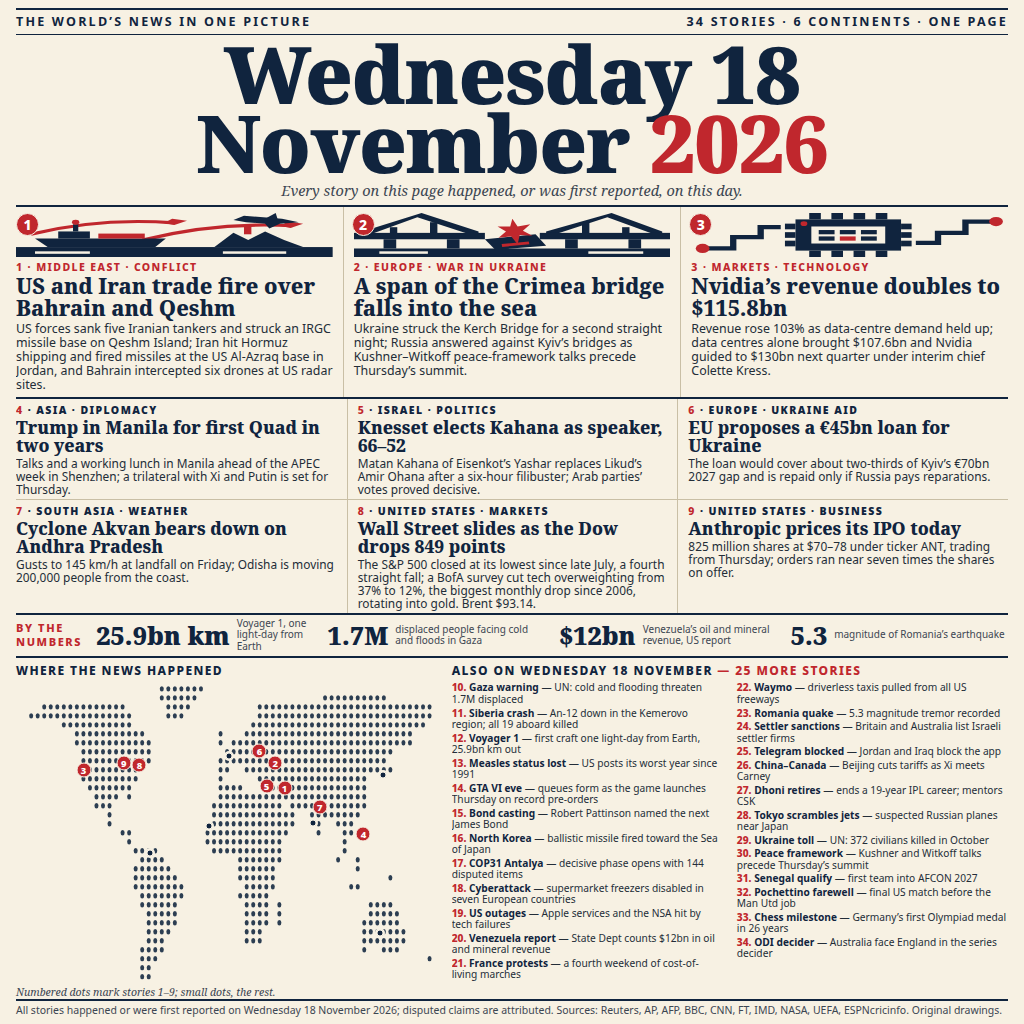
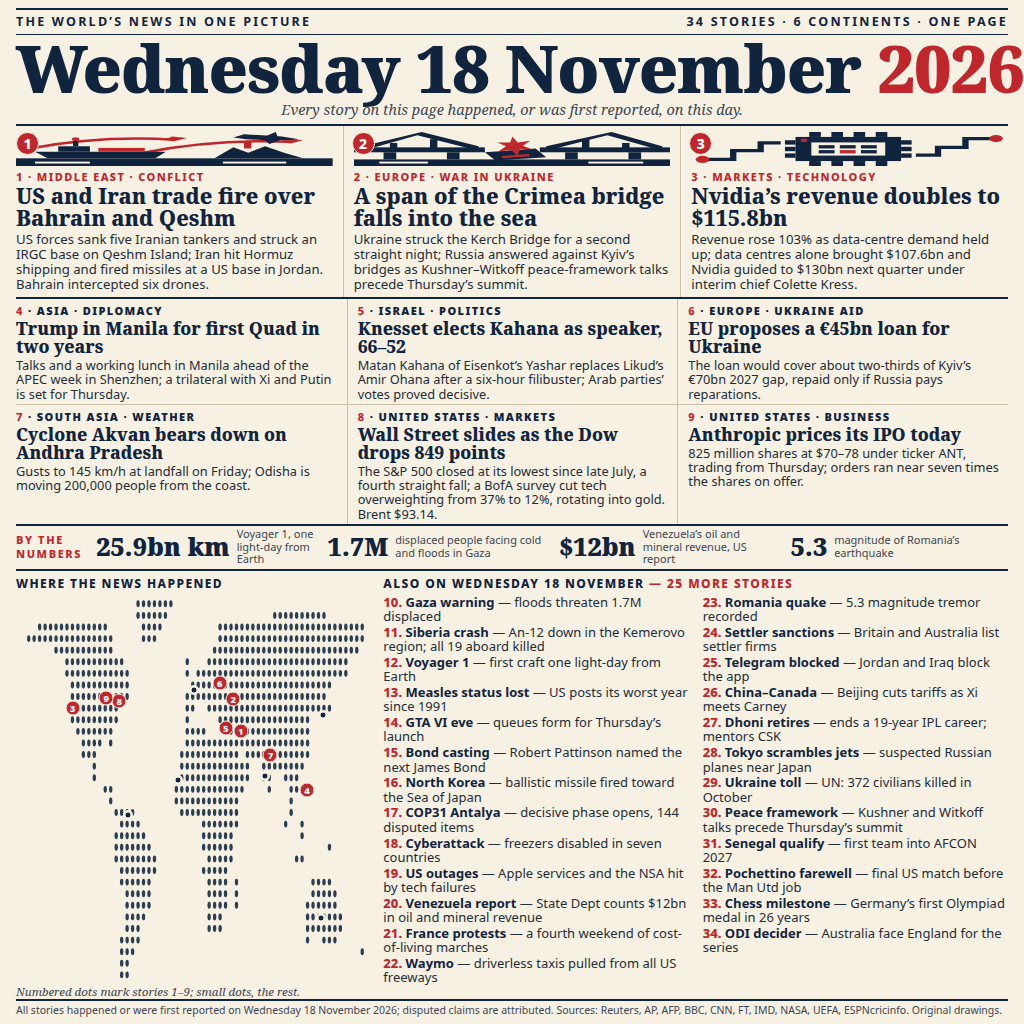
Round 3: legibility revision - larger body type, shortened texts, full 34 stories visible

diff --git a/page.html b/page.html
@@ -28,7 +28,8 @@
   .hero { text-align:center; padding:4px 0 5px 0; border-bottom:2.5px solid #10243E; }
   .hero h1 {
     font-family:"Noto Serif", serif; font-weight:900; color:#10243E;
-    font-size:80px; line-height:0.86; letter-spacing:-1px; margin:0;
+    font-size:66px; line-height:0.86; letter-spacing:-1px; margin:0;
+    white-space:nowrap;
   }
   .hero h1 .yr { color:#c0272d; }
   .strapline {
@@ -42,7 +43,7 @@
   .panel + .panel { border-left:1px solid #c9bfa5; }
   .panel:first-child { padding-left:0; }
   .panel:last-child { padding-right:0; }
-  .panel svg.art { display:block; width:100%; height:44px; }
+  .panel svg.art { display:block; width:100%; height:34px; }
   .numcirc {
     position:absolute; top:6px; left:8px; width:23px; height:23px; border-radius:50%;
     background:#c0272d; color:#fff; font-weight:800; font-size:14px;
@@ -50,9 +51,9 @@
     border:1.5px solid #f7f1e3;
   }
   .panel:first-child .numcirc { left:0; }
-  .kicker { font-size:10.5px; font-weight:800; letter-spacing:1.4px; color:#c0272d; margin:3px 0 1px 0; white-space:nowrap; }
+  .kicker { font-size:11px; font-weight:800; letter-spacing:1.4px; color:#c0272d; margin:3px 0 1px 0; white-space:nowrap; }
   .panel h2 { font-family:"Noto Serif", serif; font-weight:800; font-size:21.5px; line-height:1.03; color:#10243E; margin:0 0 3px 0; }
-  .panel p { font-size:12.4px; line-height:1.13; margin:0; color:#232d38; }
+  .panel p { font-size:13.2px; line-height:1.14; margin:0; color:#232d38; }
 
   /* ---------- Modules ---------- */
   .modules { display:grid; grid-template-columns:1fr 1fr 1fr; border-bottom:2px solid #10243E; }
@@ -65,23 +66,23 @@
   .mod .kicker { margin:0 0 2px 0; }
   .mod .kicker b { color:#10243E; }
   .mod h3 { font-family:"Noto Serif", serif; font-weight:800; font-size:17.5px; line-height:1.02; color:#10243E; margin:0 0 2px 0; }
-  .mod p { font-size:11.9px; line-height:1.10; margin:0; color:#232d38; }
+  .mod p { font-size:12.8px; line-height:1.12; margin:0; color:#232d38; }
   .mnum { color:#c0272d; }
 
   /* ---------- By the numbers ---------- */
   .numbers {
     display:flex; align-items:center; gap:14px;
-    border-bottom:2px solid #10243E; padding:3px 0 4px 0;
+    border-bottom:2px solid #10243E; padding:2px 0 3px 0;
   }
   .numbers .lbl { font-size:11px; font-weight:800; letter-spacing:1.6px; color:#c0272d; white-space:nowrap; line-height:1.25; }
   .numitem { display:flex; align-items:center; gap:7px; flex:1; }
   .numitem .big { font-family:"Noto Serif", serif; font-weight:900; font-size:25px; color:#10243E; white-space:nowrap; line-height:1; }
-  .numitem .cap { font-size:10px; line-height:1.15; color:#3c4652; }
+  .numitem .cap { font-size:11px; line-height:1.15; color:#3c4652; }
 
   /* ---------- Bottom split ---------- */
   .bottom { display:flex; gap:16px; flex:1; min-height:0; padding-top:4px; }
-  .leftcol { width:43%; display:flex; flex-direction:column; }
-  .rightcol { width:57%; display:flex; flex-direction:column; }
+  .leftcol { width:36%; display:flex; flex-direction:column; }
+  .rightcol { width:64%; display:flex; flex-direction:column; }
   .colhead { font-size:12px; font-weight:800; letter-spacing:1.4px; color:#10243E; margin:0 0 3px 0; white-space:nowrap; }
   .colhead .red { color:#c0272d; }
   .mapwrap { position:relative; width:100%; flex:1; min-height:0; }
@@ -97,9 +98,9 @@
     background:#10243E; transform:translate(-50%,-50%);
     border:1px solid #f7f1e3; box-shadow:0 0 0 1.5px #f7f1e3; z-index:2;
   }
-  .mapcap { font-size:10.5px; font-style:italic; font-family:"Noto Serif", serif; color:#3c4652; margin-top:3px; }
+  .mapcap { font-size:11.5px; font-style:italic; font-family:"Noto Serif", serif; color:#3c4652; margin-top:3px; }
   .microlist { columns:2; column-gap:14px; flex:1; min-height:0; overflow:hidden; }
-  .microlist div { font-size:10.2px; line-height:1.13; color:#232d38; margin:0 0 2px 0; break-inside:avoid; }
+  .microlist div { font-size:13px; line-height:1.10; color:#232d38; margin:0 0 1.5px 0; break-inside:avoid; }
   .microlist b { color:#10243E; }
   .microlist .n { color:#c0272d; font-weight:800; }
 
@@ -166,7 +167,7 @@
     <div class="numcirc">1</div>
     <div class="kicker">1 &middot; MIDDLE EAST &middot; CONFLICT</div>
     <h2>US and Iran trade fire over Bahrain and Qeshm</h2>
-    <p>US forces sank five Iranian tankers and struck an IRGC missile base on Qeshm Island; Iran hit Hormuz shipping and fired missiles at the US Al-Azraq base in Jordan, and Bahrain intercepted six drones at US radar sites.</p>
+    <p>US forces sank five Iranian tankers and struck an IRGC base on Qeshm Island; Iran hit Hormuz shipping and fired missiles at a US base in Jordan. Bahrain intercepted six drones.</p>
   </article>
 
   <article class="panel">
@@ -238,7 +239,7 @@
   <article class="mod">
     <div class="kicker"><span class="mnum">6</span> <b>&middot; EUROPE &middot; UKRAINE AID</b></div>
     <h3>EU proposes a &euro;45bn loan for Ukraine</h3>
-    <p>The loan would cover about two-thirds of Kyiv&rsquo;s &euro;70bn 2027 gap and is repaid only if Russia pays reparations.</p>
+    <p>The loan would cover about two-thirds of Kyiv&rsquo;s &euro;70bn 2027 gap, repaid only if Russia pays reparations.</p>
   </article>
   <article class="mod">
     <div class="kicker"><span class="mnum">7</span> <b>&middot; SOUTH ASIA &middot; WEATHER</b></div>
@@ -248,7 +249,7 @@
   <article class="mod">
     <div class="kicker"><span class="mnum">8</span> <b>&middot; UNITED STATES &middot; MARKETS</b></div>
     <h3>Wall Street slides as the Dow drops 849 points</h3>
-    <p>The S&amp;P 500 closed at its lowest since late July, a fourth straight fall; a BofA survey cut tech overweighting from 37% to 12%, the biggest monthly drop since 2006, rotating into gold. Brent $93.14.</p>
+    <p>The S&amp;P 500 closed at its lowest since late July, a fourth straight fall; a BofA survey cut tech overweighting from 37% to 12%, rotating into gold. Brent $93.14.</p>
   </article>
   <article class="mod">
     <div class="kicker"><span class="mnum">9</span> <b>&middot; UNITED STATES &middot; BUSINESS</b></div>
@@ -291,21 +292,21 @@
   <div class="rightcol">
     <p class="colhead">ALSO ON WEDNESDAY 18 NOVEMBER <span class="red">&mdash; 25 MORE STORIES</span></p>
     <div class="microlist">
-      <div><span class="n">10.</span> <b>Gaza warning</b> &mdash; UN: cold and flooding threaten 1.7M displaced</div>
+      <div><span class="n">10.</span> <b>Gaza warning</b> &mdash; floods threaten 1.7M displaced</div>
       <div><span class="n">11.</span> <b>Siberia crash</b> &mdash; An-12 down in the Kemerovo region; all 19 aboard killed</div>
-      <div><span class="n">12.</span> <b>Voyager 1</b> &mdash; first craft one light-day from Earth, 25.9bn km out</div>
+      <div><span class="n">12.</span> <b>Voyager 1</b> &mdash; first craft one light-day from Earth</div>
       <div><span class="n">13.</span> <b>Measles status lost</b> &mdash; US posts its worst year since 1991</div>
-      <div><span class="n">14.</span> <b>GTA VI eve</b> &mdash; queues form as the game launches Thursday on record pre-orders</div>
+      <div><span class="n">14.</span> <b>GTA VI eve</b> &mdash; queues form for Thursday&rsquo;s launch</div>
       <div><span class="n">15.</span> <b>Bond casting</b> &mdash; Robert Pattinson named the next James Bond</div>
       <div><span class="n">16.</span> <b>North Korea</b> &mdash; ballistic missile fired toward the Sea of Japan</div>
-      <div><span class="n">17.</span> <b>COP31 Antalya</b> &mdash; decisive phase opens with 144 disputed items</div>
-      <div><span class="n">18.</span> <b>Cyberattack</b> &mdash; supermarket freezers disabled in seven European countries</div>
+      <div><span class="n">17.</span> <b>COP31 Antalya</b> &mdash; decisive phase opens, 144 disputed items</div>
+      <div><span class="n">18.</span> <b>Cyberattack</b> &mdash; freezers disabled in seven countries</div>
       <div><span class="n">19.</span> <b>US outages</b> &mdash; Apple services and the NSA hit by tech failures</div>
       <div><span class="n">20.</span> <b>Venezuela report</b> &mdash; State Dept counts $12bn in oil and mineral revenue</div>
       <div><span class="n">21.</span> <b>France protests</b> &mdash; a fourth weekend of cost-of-living marches</div>
       <div><span class="n">22.</span> <b>Waymo</b> &mdash; driverless taxis pulled from all US freeways</div>
       <div><span class="n">23.</span> <b>Romania quake</b> &mdash; 5.3 magnitude tremor recorded</div>
-      <div><span class="n">24.</span> <b>Settler sanctions</b> &mdash; Britain and Australia list Israeli settler firms</div>
+      <div><span class="n">24.</span> <b>Settler sanctions</b> &mdash; Britain and Australia list settler firms</div>
       <div><span class="n">25.</span> <b>Telegram blocked</b> &mdash; Jordan and Iraq block the app</div>
       <div><span class="n">26.</span> <b>China&ndash;Canada</b> &mdash; Beijing cuts tariffs as Xi meets Carney</div>
       <div><span class="n">27.</span> <b>Dhoni retires</b> &mdash; ends a 19-year IPL career; mentors CSK</div>
@@ -315,7 +316,7 @@
       <div><span class="n">31.</span> <b>Senegal qualify</b> &mdash; first team into AFCON 2027</div>
       <div><span class="n">32.</span> <b>Pochettino farewell</b> &mdash; final US match before the Man Utd job</div>
       <div><span class="n">33.</span> <b>Chess milestone</b> &mdash; Germany&rsquo;s first Olympiad medal in 26 years</div>
-      <div><span class="n">34.</span> <b>ODI decider</b> &mdash; Australia face England in the series decider</div>
+      <div><span class="n">34.</span> <b>ODI decider</b> &mdash; Australia face England for the series</div>
     </div>
   </div>
 </section>
